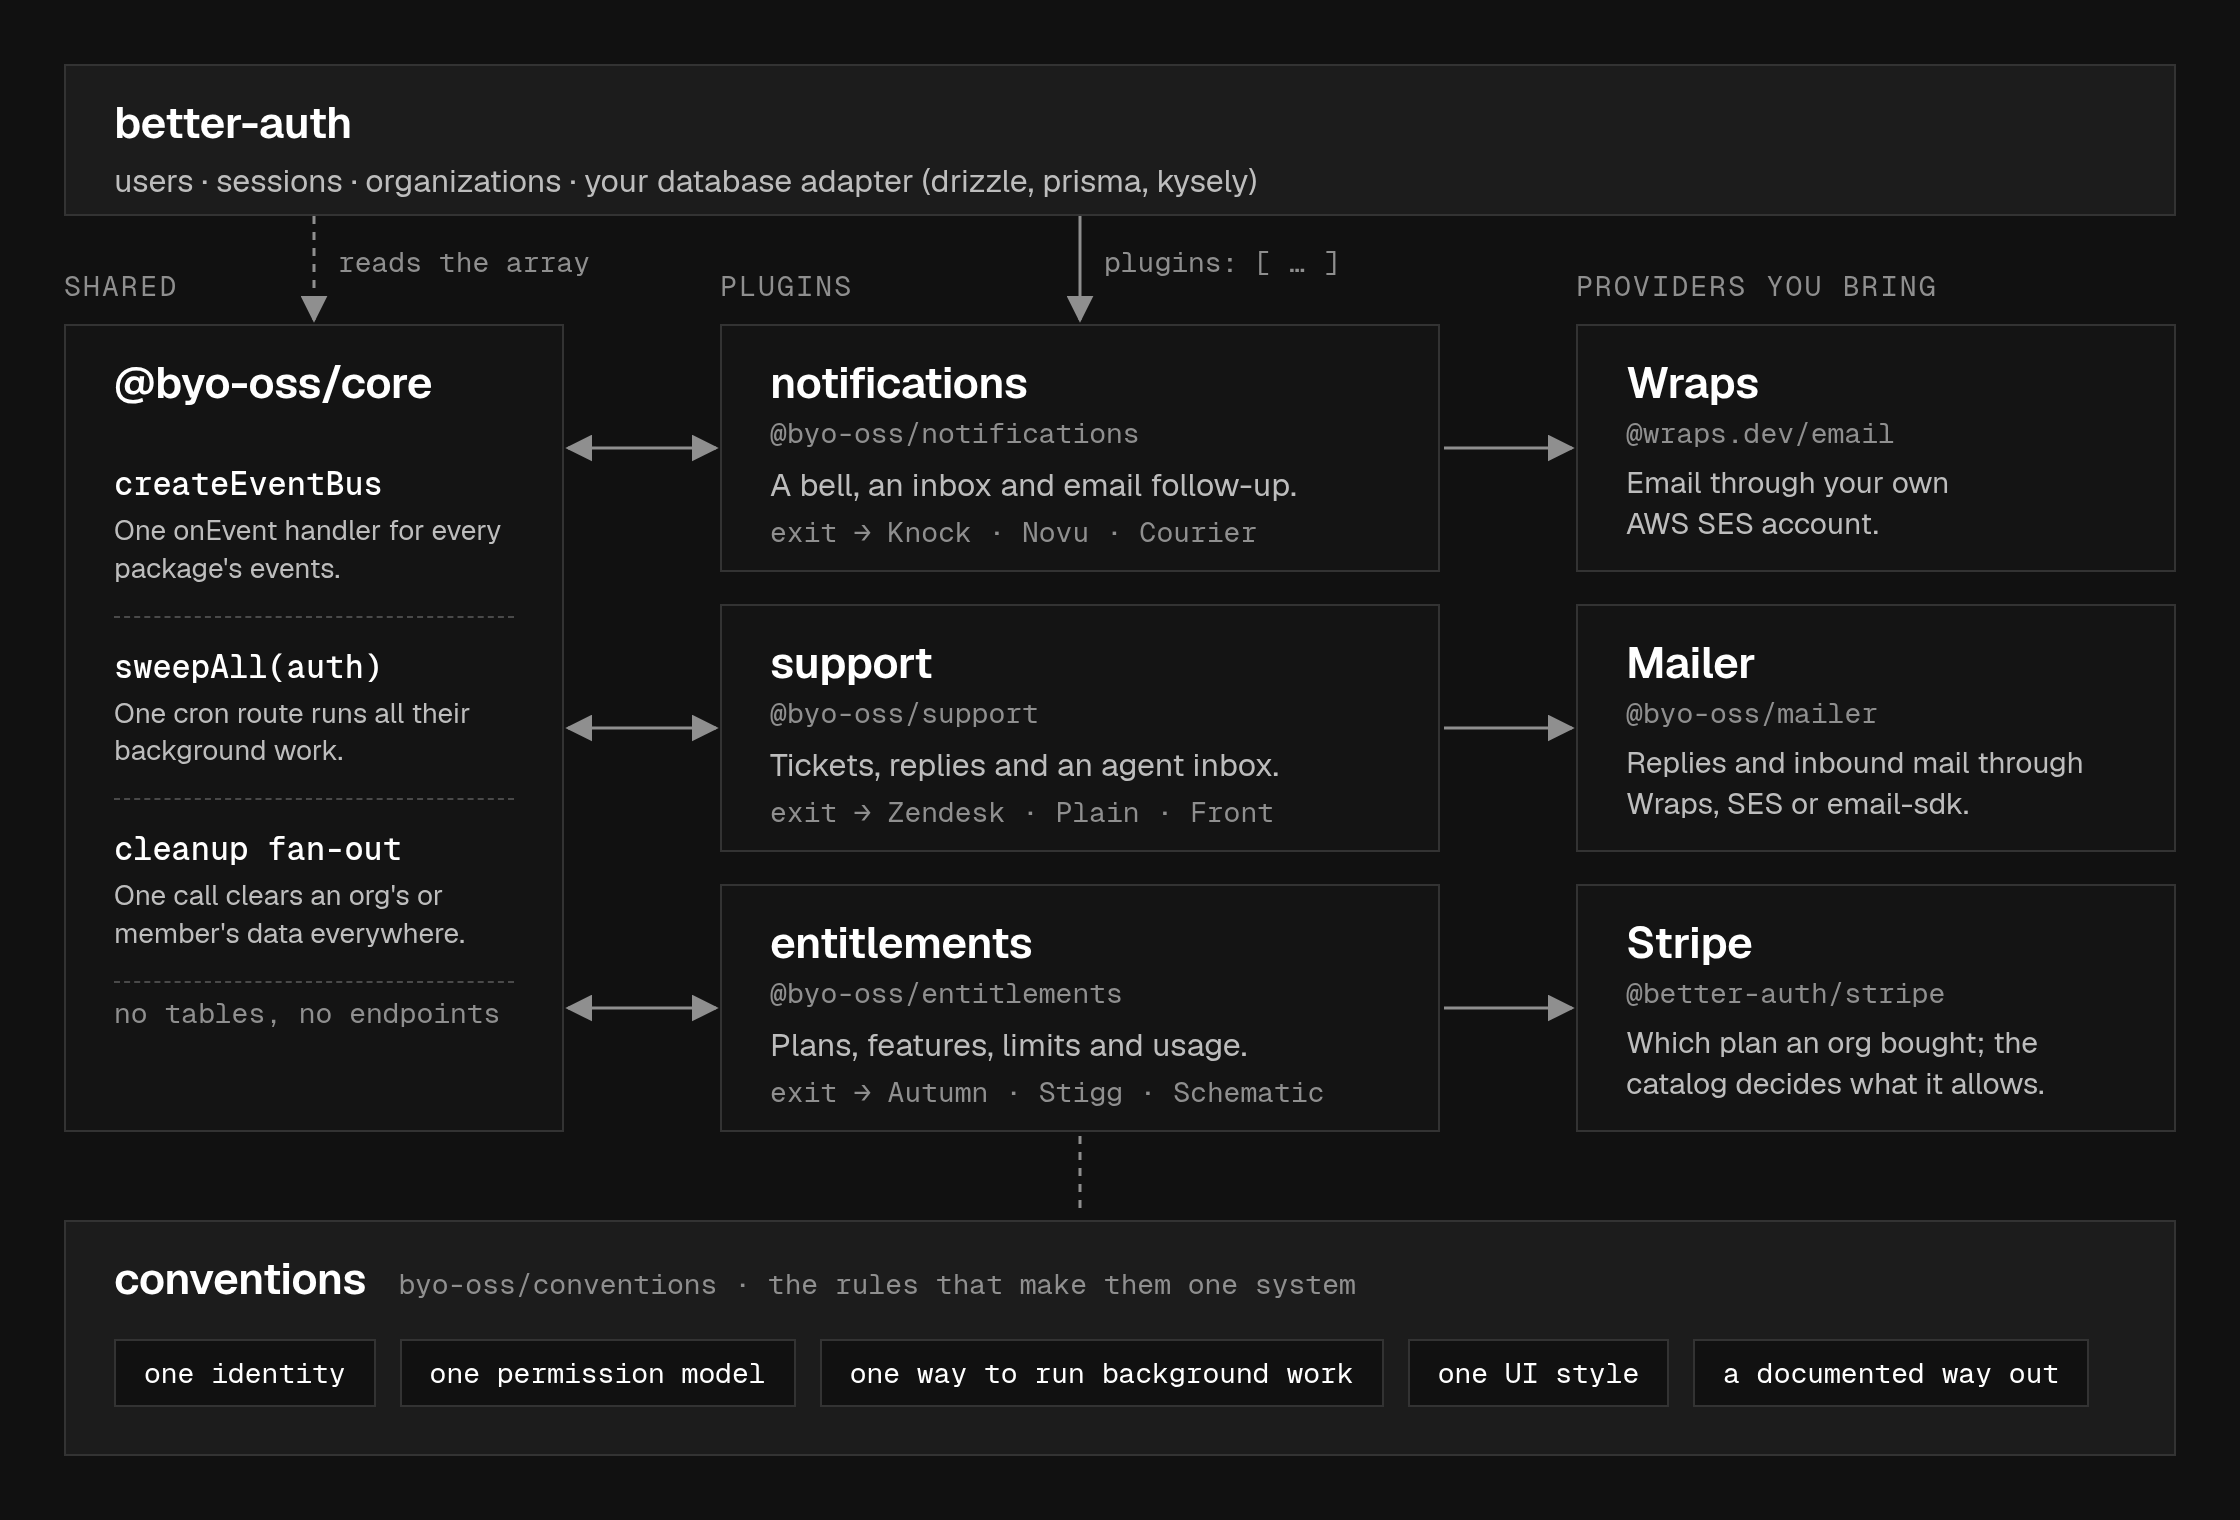
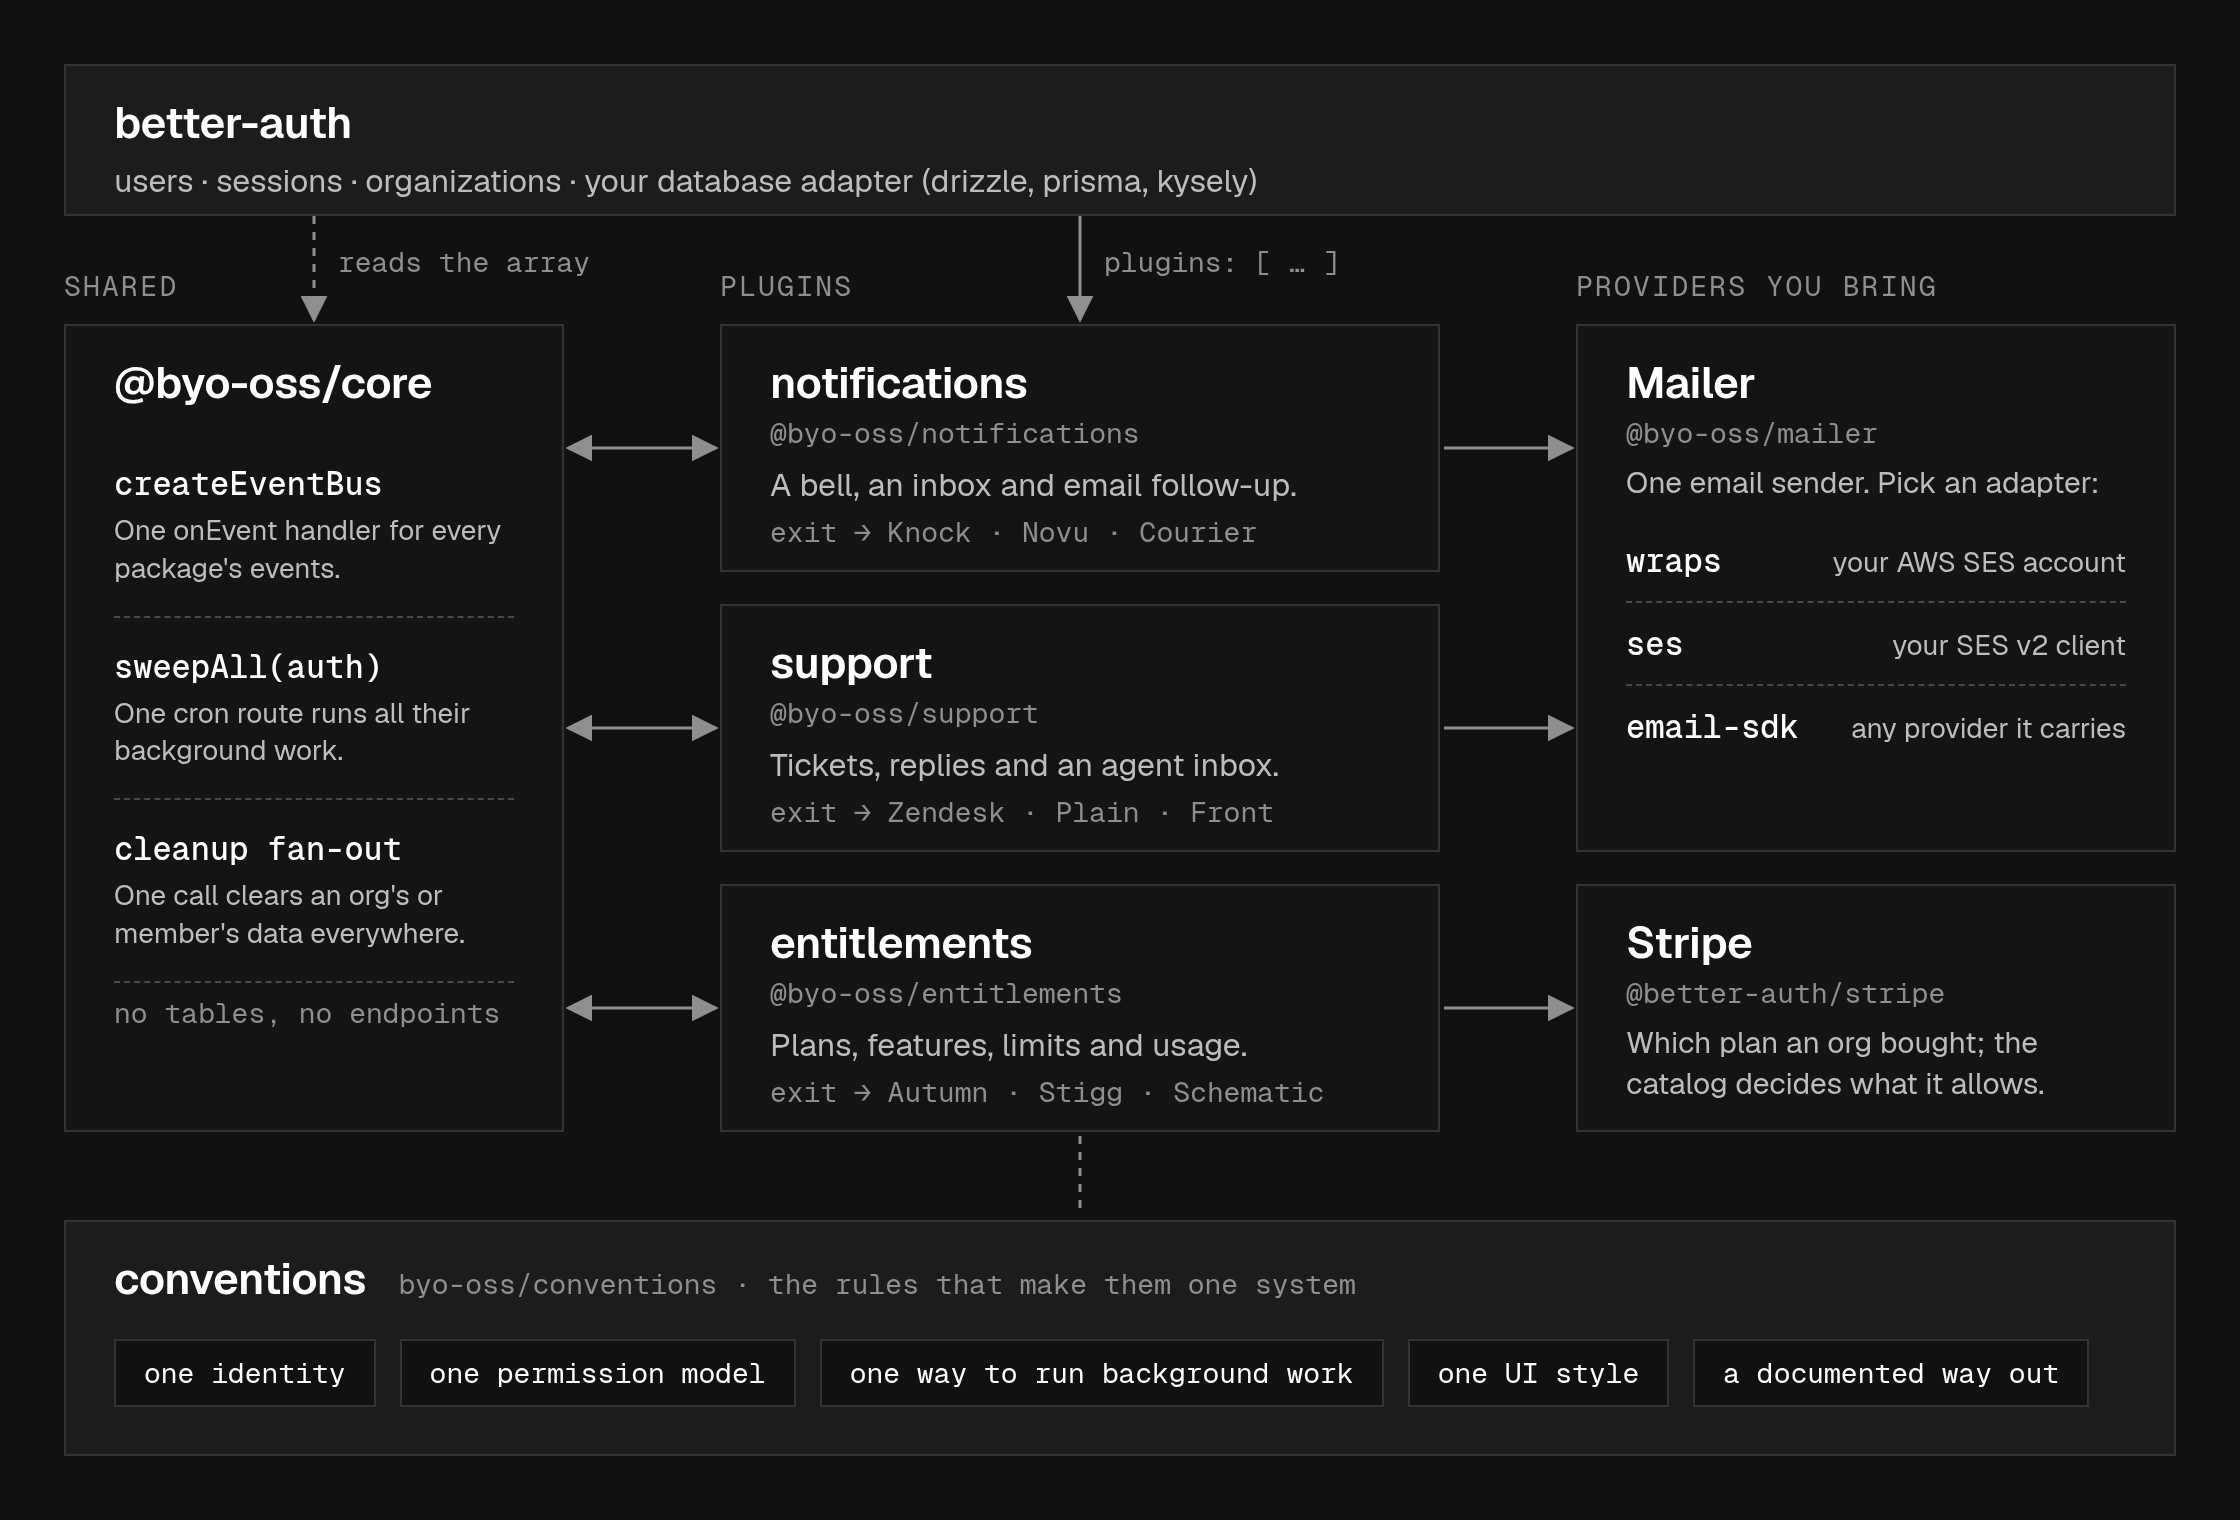
Diagram: notifications and support send through the mailer
Claude-Session: https://claude.ai/code/session_01N6JuCg9csZhXf1fiswB4SF

Changed region(s): [[0.7188, 0.2474, 0.9688, 0.5566]]

diff --git a/design/diagram.html b/design/diagram.html
@@ -17,6 +17,8 @@
   .item:last-of-type { border-bottom: 0; }
   .item b { font-family: var(--font-mono); font-size: 16px; font-weight: 500; }
   .item div { font-size: 14px; color: var(--text-2); line-height: 1.35; margin-top: 4px; }
+  .item.row { display:flex; justify-content:space-between; align-items:baseline; gap:12px; padding:10px 0; }
+  .item.row span { font-size:14px; color:var(--text-2); }
   .note { font-family: var(--font-mono); font-size: 14px; color: var(--faint); margin-top: 6px; }
   .tags { display: flex; gap: 12px; margin-top: 16px; }
   .tag { border: 1px solid var(--border); background: var(--bg); padding: 7px 14px; font-family: var(--font-mono); font-size: 14px; }
@@ -62,13 +64,12 @@
 </div>
 
 <!-- providers -->
-<div class="box small" style="left:788px; top:162px; width:300px; height:124px">
-  <div class="name">Wraps</div><div class="pkg">@wraps.dev/email</div>
-  <div class="desc" style="margin-top:6px">Email through your own<br>AWS SES account.</div>
-</div>
-<div class="box small" style="left:788px; top:302px; width:300px; height:124px">
+<div class="box small" style="left:788px; top:162px; width:300px; height:264px">
   <div class="name">Mailer</div><div class="pkg">@byo-oss/mailer</div>
-  <div class="desc" style="margin-top:6px">Replies and inbound mail through<br>Wraps, SES or email-sdk.</div>
+  <div class="desc" style="margin-top:6px">One email sender. Pick an adapter:</div>
+  <div class="item row" style="margin-top:8px"><b>wraps</b><span>your AWS SES account</span></div>
+  <div class="item row"><b>ses</b><span>your SES v2 client</span></div>
+  <div class="item row"><b>email-sdk</b><span>any provider it carries</span></div>
 </div>
 <div class="box small" style="left:788px; top:442px; width:300px; height:124px">
   <div class="name">Stripe</div><div class="pkg">@better-auth/stripe</div>

diff --git a/profile/README.md b/profile/README.md
@@ -28,7 +28,7 @@ Also here: [`conventions`](https://github.com/byo-oss/conventions), the rules th
 <p align="center">
   <picture>
     <source media="(prefers-color-scheme: dark)" srcset="https://raw.githubusercontent.com/byo-oss/.github/main/profile/assets/how-it-fits-dark.png">
-    <img alt="Diagram. Your app runs better-auth, which loads the BYO plugins (notifications, support, entitlements). @byo-oss/core reads that plugin list to give them one event bus, one cron sweep and one cleanup call. Providers sit outside: Wraps, the mailer and Stripe. The conventions underneath keep them one system." src="https://raw.githubusercontent.com/byo-oss/.github/main/profile/assets/how-it-fits-light.png" width="100%">
+    <img alt="Diagram. Your app runs better-auth, which loads the BYO plugins (notifications, support, entitlements). @byo-oss/core reads that plugin list to give them one event bus, one cron sweep and one cleanup call. Providers sit outside: the mailer, which notifications and support send through (Wraps, SES or email-sdk adapters), and Stripe. The conventions underneath keep them one system." src="https://raw.githubusercontent.com/byo-oss/.github/main/profile/assets/how-it-fits-light.png" width="100%">
   </picture>
 </p>
 
